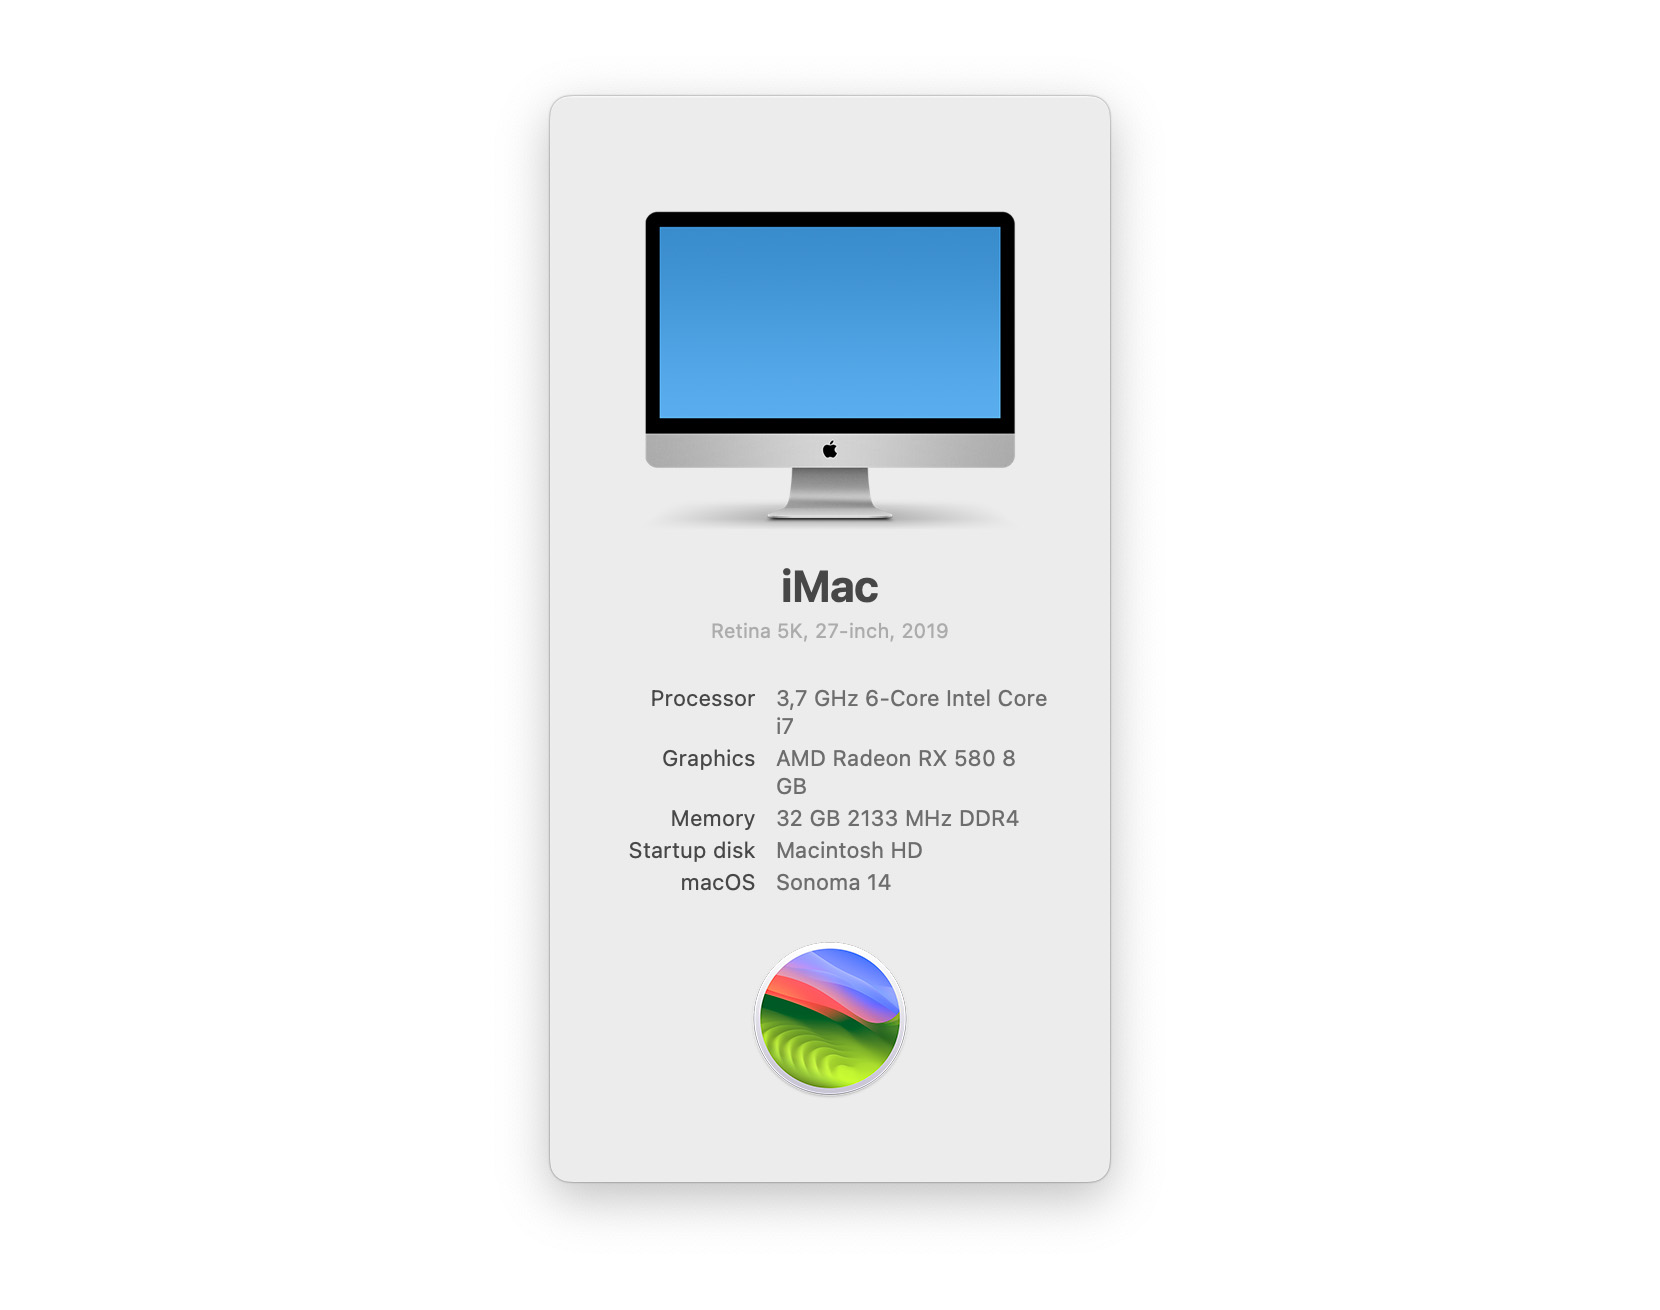
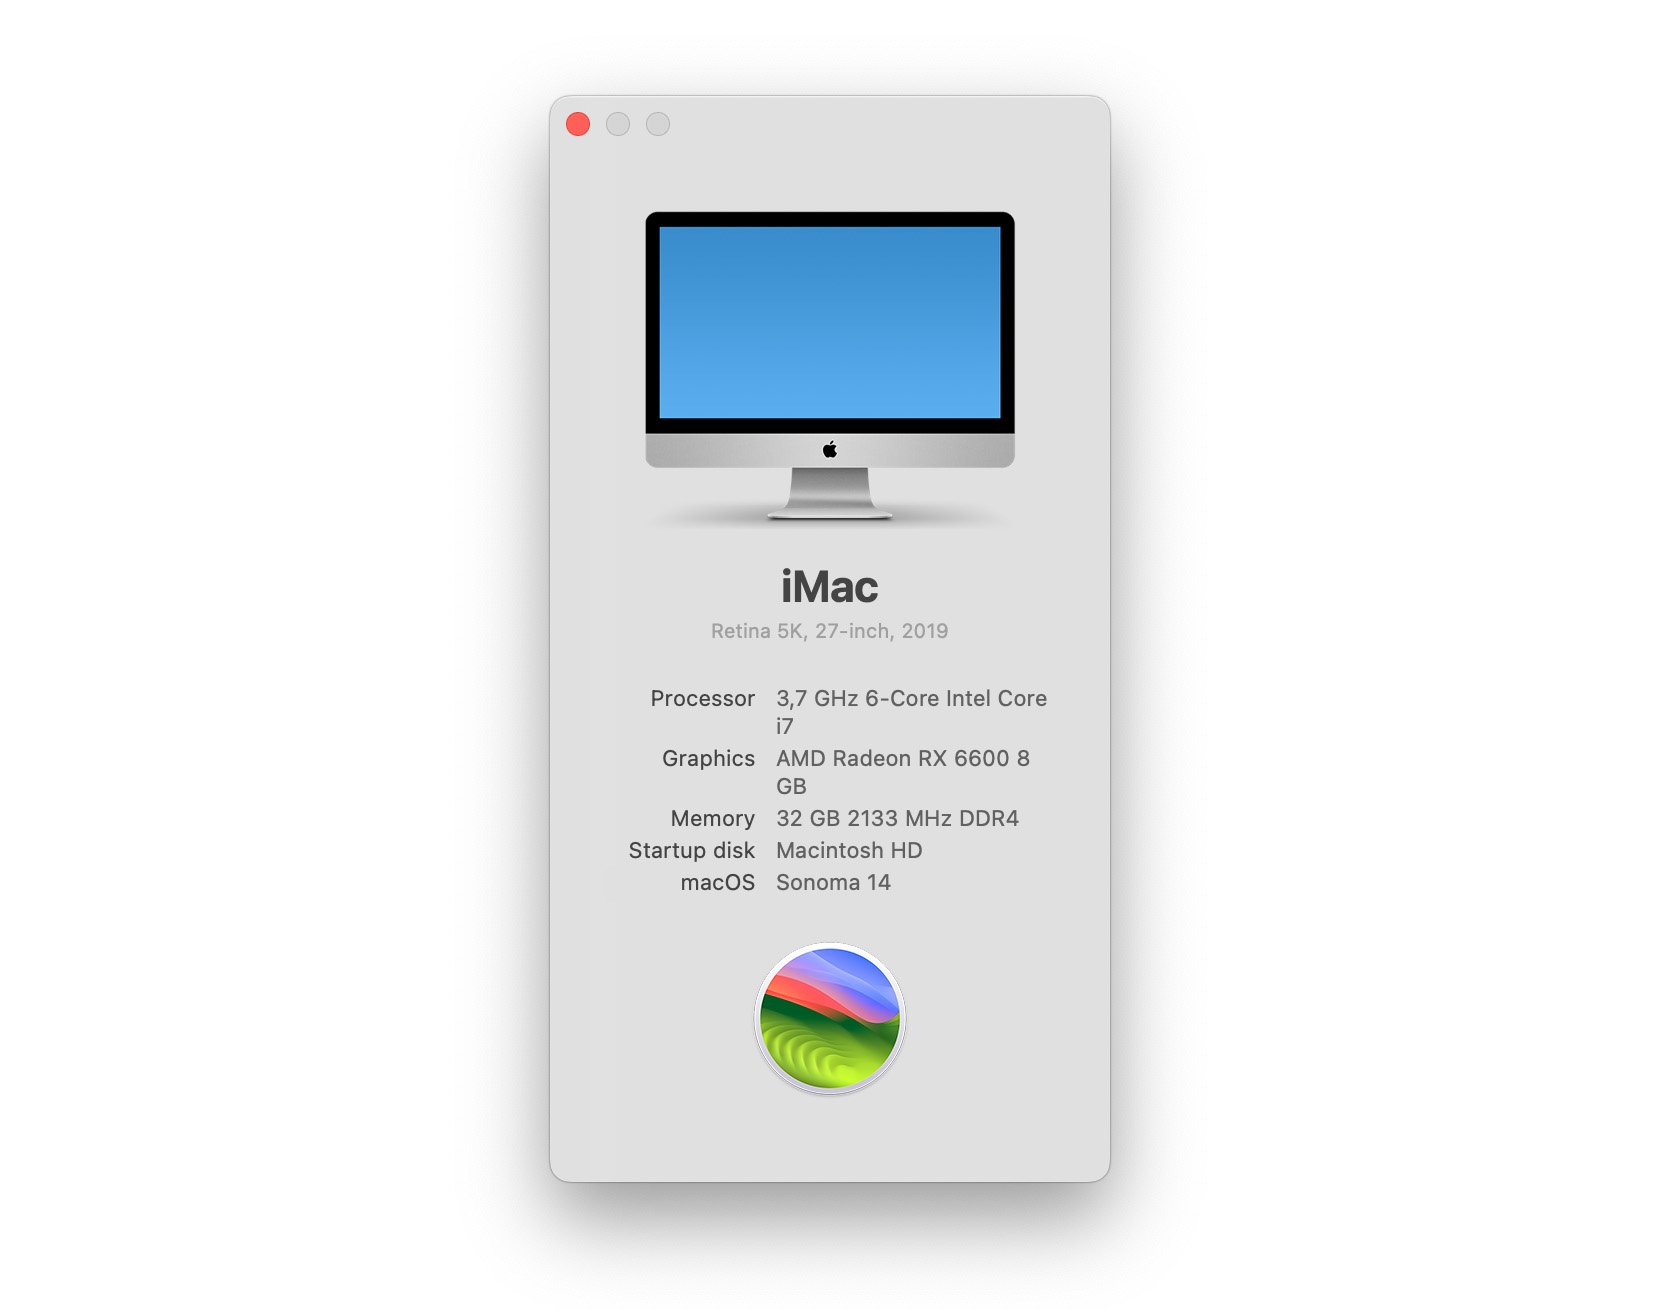
.

Changed region(s): [[0.338, 0.8855, 0.6759, 0.9466], [0.338, 0.0916, 0.3687, 0.1221]]

diff --git a/README.md b/README.md
@@ -22,7 +22,7 @@ Remember to read the [anti-hackintosh buyers guide](https://dortania.github.io/A
 | CPU         | Intel          | Core i7 8700K 3,7GHz                                              | [VirtualSMC](https://github.com/acidanthera/VirtualSMC)                                                                                                | _Coffee Lake_                   |
 | RAM         | Corsair        | Vengeance LPX DDR4 2133MHz 16GB <sup>x2</sup>                     | built-in                                                                                                                                               |                                 |
 | iGPU        | Intel          | UHD Graphics 630                                                  | [WhateverGreen](https://github.com/acidanthera/WhateverGreen)                                                                                          | _Headless mode_                 |
-| dGPU        | Gigabyte       | RX 580 GAMING 8GB                                                 | [WhateverGreen](https://github.com/acidanthera/WhateverGreen)                                                                                          |                                 |
+| dGPU        | Asus           | RX 6600 DUAL V2 8GB                                               | [WhateverGreen](https://github.com/acidanthera/WhateverGreen)                                                                                          |                                 |
 | SSD         | Samsung        | 970 EVO 500GB M.2 <sup>x1</sup> <br>840 EVO 250GB <sup>x1</sup>   | [NVMeFix](https://github.com/acidanthera/NVMeFix)                                                                                                      | _macOS <br>Windows_             |
 | HDD         | WD             | Green 3TB 3.5" <sup>x1</sup>                                      | built-in                                                                                                                                               |                                 |
 | Wifi        | Intel          | AC 8265NGW                                                        | [AirportItlwm](https://github.com/OpenIntelWireless/itlwm)                                                                                             |                                 |
